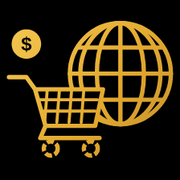
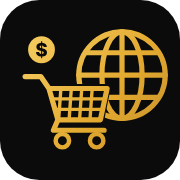
Logótipo novo em vetor: nome legível em todos os tamanhos
Claude-Session: https://claude.ai/code/session_01HphMS4ftM4wCD3ysagQwSr

diff --git a/perfil.html b/perfil.html
@@ -134,7 +134,8 @@
             margin-left: auto;          /* botões sempre à direita */
         }
 
-        .logo-topo img { height: 40px; width: 40px; border-radius: 10px; object-fit: cover; display: block; background: #000; }
+        .fc-marca{display:flex;align-items:center;gap:9px;text-decoration:none;flex-shrink:0;min-width:0}.fc-marca img{width:40px;height:40px;border-radius:10px;display:block;flex-shrink:0}.fc-marca span{font-family:Inter,"Segoe UI",system-ui,sans-serif;font-size:19px;font-weight:800;letter-spacing:-.4px;white-space:nowrap;background:linear-gradient(180deg,#f3c64e,#c9921f);-webkit-background-clip:text;background-clip:text;color:transparent}
+        @media (max-width:640px){.fc-marca span{display:none}}
 
         /* nada pode empurrar a página para os lados no telemóvel */
         html, body { max-width: 100%; overflow-x: hidden; }
@@ -1249,7 +1250,7 @@
 
 <!-- ==================== HEADER ==================== -->
 <header>
-    <a href="index.html" class="logo-topo" title="Feira Comercial"><img src="images/logo.jpg" alt="Feira Comercial"></a>
+    <a href="index.html" class="logo-topo fc-marca" title="Feira Comercial"><img src="images/logo-icone.svg" alt="Feira Comercial"><span>Feira Comercial</span></a>
     <input type="text" class="search-bar" placeholder="Pesquisar pessoas e empresas..." onkeydown="if(event.key==='Enter'&&this.value.trim())location.href='amigos.html?q='+encodeURIComponent(this.value.trim())">
     <div class="header-actions">
         <a href="index.html" title="Início"><i class="fas fa-home icon-btn" style="color:#ff3344;"></i></a>

diff --git a/index.html b/index.html
@@ -486,6 +486,8 @@
             .mobile-search-btn { display: none !important; }
         }
     .fc-msg-badge{position:absolute;top:-4px;right:-6px;min-width:18px;height:18px;padding:0 5px;border-radius:9px;background:#ef4444;color:#fff;font-size:11px;font-weight:700;line-height:18px;text-align:center;font-family:sans-serif;pointer-events:none}
+.fc-marca{display:flex;align-items:center;gap:9px;text-decoration:none;flex-shrink:0;min-width:0}.fc-marca img{width:40px;height:40px;border-radius:10px;display:block;flex-shrink:0}.fc-marca span{font-family:Inter,"Segoe UI",system-ui,sans-serif;font-size:19px;font-weight:800;letter-spacing:-.4px;white-space:nowrap;background:linear-gradient(180deg,#f3c64e,#c9921f);-webkit-background-clip:text;background-clip:text;color:transparent}
+@media (max-width:900px){.fc-marca span{display:none}}
 /* nada empurra a página para os lados no telemóvel */
 html, body { max-width: 100%; overflow-x: hidden; }
 </style>
@@ -499,8 +501,7 @@ html, body { max-width: 100%; overflow-x: hidden; }
 
 <!-- HEADER -->
 <header>
-    <div class="logo"></div>
-<img src="images/icon.jpeg" alt="Ícone" style="position: absolute; top: 02px;   left: 01px; width: 115px; border: 0; border-style: none; outline: none; border-radius: 20px ">
+    <a href="index.html" class="fc-marca" title="Feira Comercial"><img src="images/logo-icone.svg" alt="Feira Comercial"><span>Feira Comercial</span></a>
 
     <div class="search-wrapper">
         <div class="search-box">

diff --git a/anuncio.html b/anuncio.html
@@ -21,7 +21,7 @@ a { color:inherit; text-decoration:none; }
 .top-nav { background:var(--ouro); padding:.7rem 1.2rem; display:flex; justify-content:space-between; align-items:center; gap:10px;
   box-shadow:0 2px 10px rgba(0,0,0,.1); position:sticky; top:0; z-index:100; }
 .nav-left { display:flex; align-items:center; gap:12px; }
-.logo-area img { height:52px; width:52px; border-radius:12px; object-fit:cover; background:#000; display:block; }
+.logo-area img { height:46px; width:46px; border-radius:12px; display:block; box-shadow:0 2px 8px rgba(0,0,0,.25); }
 .btn-home { background:#fff; color:#1e293b; border-radius:8px; padding:8px 12px; font-weight:600; font-size:.85rem; display:flex; align-items:center; gap:6px; }
 .titulo-nav { font-weight:800; font-size:1.1rem; }
 
@@ -107,7 +107,7 @@ html, body { max-width: 100%; overflow-x: hidden; }
 
 <nav class="top-nav">
   <div class="nav-left">
-    <a href="index.html" class="logo-area"><img src="images/logo.jpg" alt="Feira Comercial"></a>
+    <a href="index.html" class="logo-area" title="Feira Comercial"><img src="images/logo-icone.svg" alt="Feira Comercial"></a>
     <a href="index.html" class="btn-home"><i class="fa-solid fa-house"></i> Início</a>
     <span class="titulo-nav">Anúncios</span>
   </div>

diff --git a/Portal.html b/Portal.html
@@ -27,7 +27,7 @@ a { color: var(--ouro); text-decoration: none; }
 .cartao { width: 100%; max-width: 420px; background: var(--cartao); border: 1px solid var(--linha); border-radius: 22px;
   padding: 28px 24px 22px; box-shadow: 0 20px 60px rgba(0,0,0,.45); }
 .marca { text-align: center; margin-bottom: 22px; }
-.marca img { width: 84px; height: 84px; border-radius: 20px; object-fit: cover; background: #000; box-shadow: 0 0 0 1px rgba(243,198,78,.25); }
+.marca img { width: 88px; height: 88px; border-radius: 22px; display: block; margin: 0 auto; box-shadow: 0 0 0 1px rgba(243,198,78,.25), 0 10px 30px rgba(0,0,0,.45); }
 .marca h1 { font-size: 24px; margin-top: 12px; }
 .marca p { font-size: 14px; color: var(--sub); margin-top: 4px; }
 .marca p b { color: var(--ouro); font-weight: 600; }
@@ -84,7 +84,7 @@ label { display: block; font-size: 13px; font-weight: 600; margin-bottom: 6px; }
 
 <main class="cartao">
   <div class="marca">
-    <img src="images/logo.jpg" alt="Feira Comercial">
+    <img src="images/logo-icone.svg" alt="Feira Comercial">
     <h1>Feira Comercial</h1>
     <p><b>Explore, Exiba, Expanda</b> — pessoas e empresas num só lugar</p>
   </div>

diff --git a/password.html b/password.html
@@ -25,8 +25,8 @@ a { color: var(--ouro); }
 
 .cartao { width: 100%; max-width: 420px; background: var(--cartao); border: 1px solid var(--linha); border-radius: 22px;
   padding: 28px 24px 22px; box-shadow: 0 20px 60px rgba(0,0,0,.45); }
-.logo { display: block; width: 76px; height: 76px; margin: 0 auto 14px; border-radius: 18px; object-fit: cover; background: #000;
-  box-shadow: 0 0 0 1px rgba(243,198,78,.25); }
+.logo { display: block; width: min(250px, 78%); height: auto; margin: 2px auto 18px;
+  }
 
 /* passos 1-2-3 */
 .passos { display: flex; align-items: center; justify-content: center; gap: 6px; margin-bottom: 20px; }
@@ -103,7 +103,7 @@ label { display: block; font-size: 13px; font-weight: 600; margin-bottom: 6px; }
 <body>
 
 <main class="cartao">
-  <img class="logo" src="images/logo.jpg" alt="Feira Comercial">
+  <img class="logo" src="images/logo-horizontal.svg" alt="Feira Comercial — Explore, Exiba, Expanda">
 
   <div class="passos" aria-hidden="true">
     <div class="passo" id="p1"><b>1</b><span>E-mail</span></div><div class="traco"></div>

diff --git a/about.html b/about.html
@@ -63,7 +63,7 @@
         </div>
 
         <div class="info-right">
-          <img src="./images/iconORIG.jpeg" alt="hotel" />
+          <img src="./images/logo-vertical.svg" alt="Feira Comercial — Explore, Exiba, Expanda" style="border-radius:18px" />
         </div>
       </div>
     </section>
